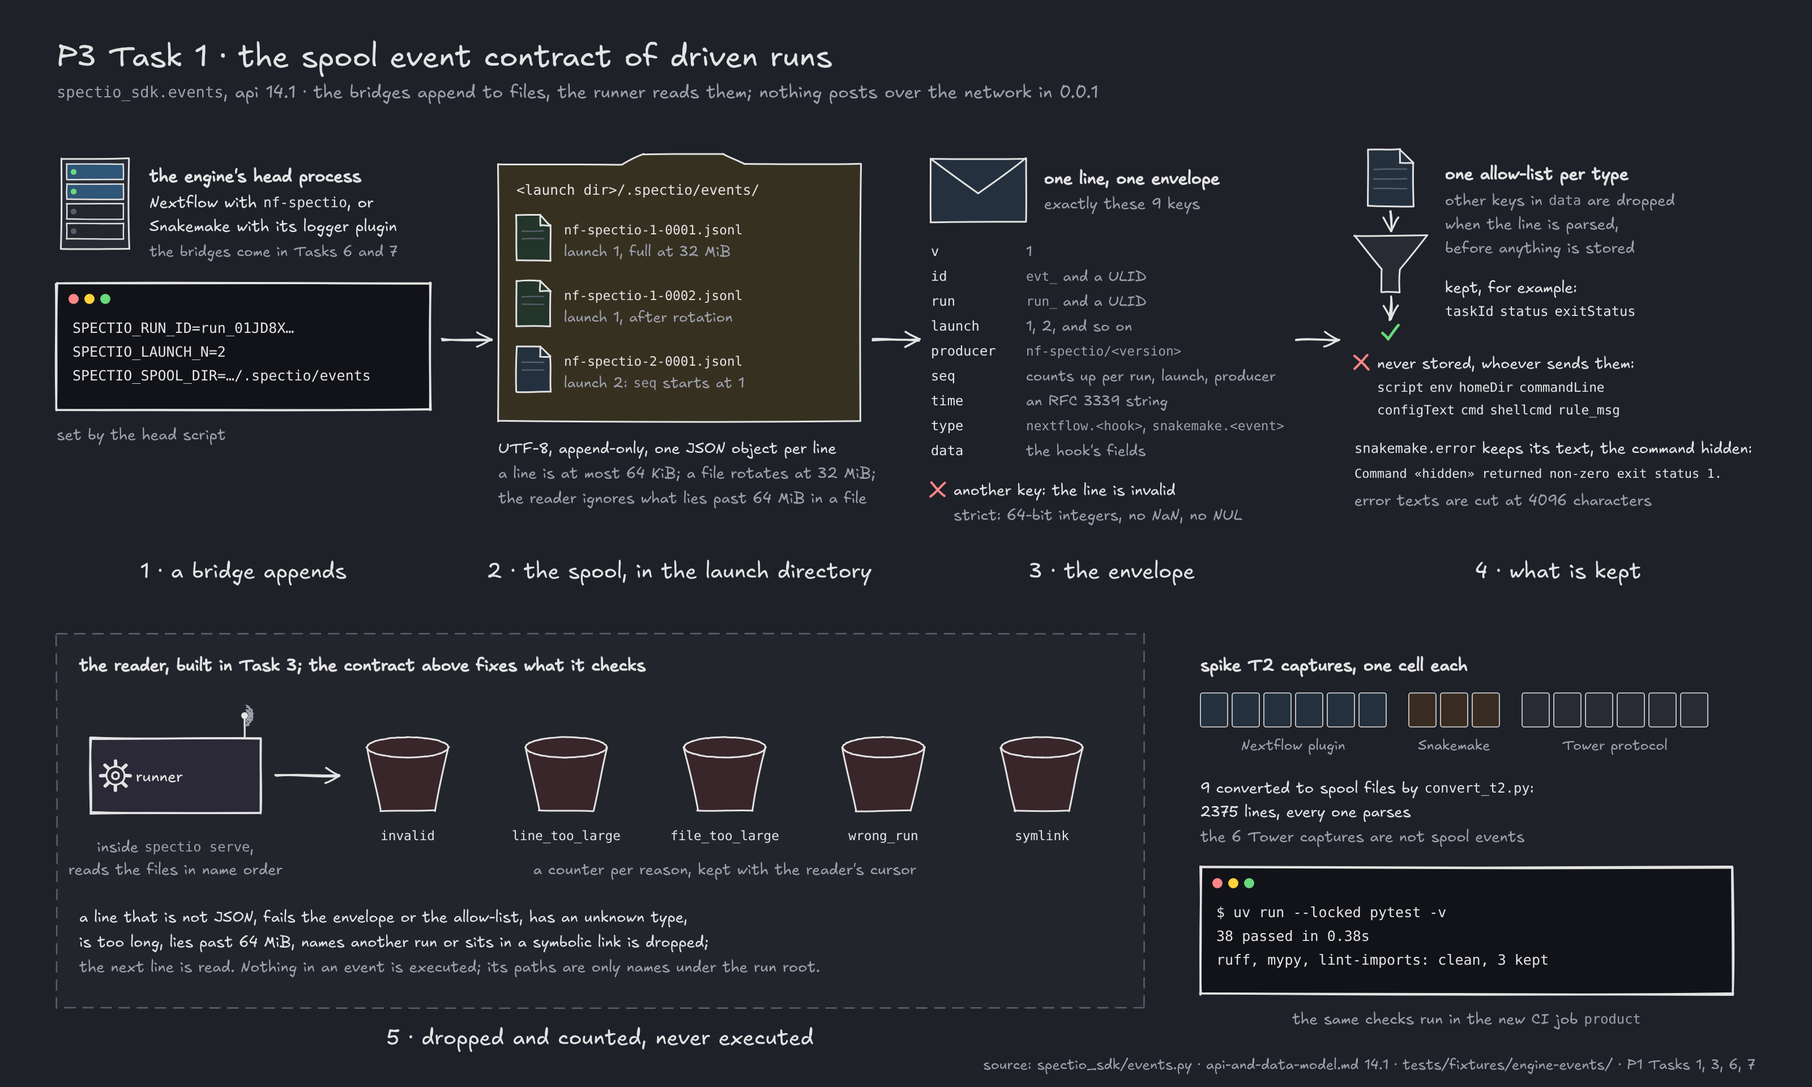
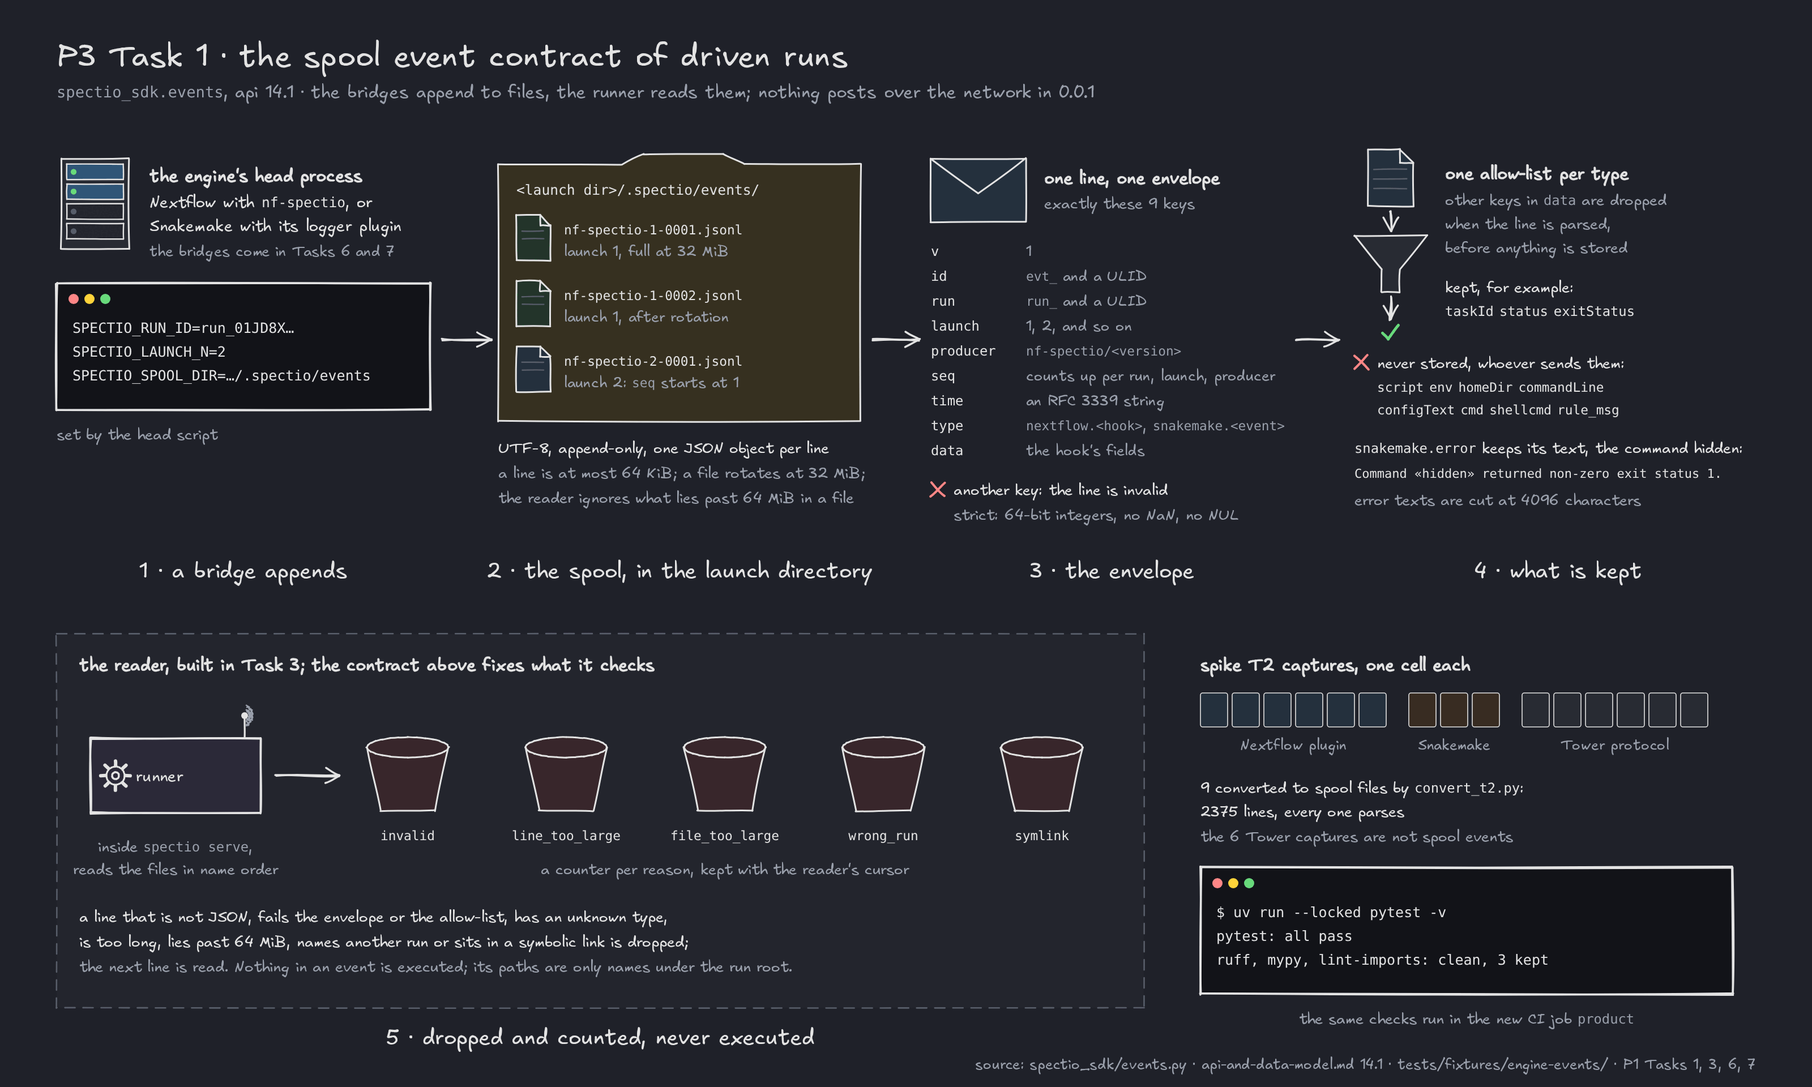
docs(progress): P3-M1 evidence on f456646, review round 3, figure without a test count

diff --git a/tools/diagrams/p3_t01_spool.py b/tools/diagrams/p3_t01_spool.py
@@ -16,7 +16,8 @@ Every fact comes from branch autopilot/P3-t01 at b730180:
   (docs/plans/P1-walking-skeleton.md);
 - spikes/engine-events/fixtures/: 15 captures, 6 Nextflow plugin, 3 Snakemake, 6 Tower protocol;
   tests/fixtures/engine-events/: 9 spool files, `wc -l` 2375 lines;
-- `uv run --locked pytest -v`: 38 passed in 0.38s; `lint-imports`: 3 kept, 0 broken (re-run 2026-10-29).
+- `uv run --locked pytest -v`: all pass; `lint-imports`: 3 kept, 0 broken (re-run 2026-10-29; no test
+  count, so that the figure does not go stale).
 """
 
 from __future__ import annotations
@@ -137,7 +138,7 @@ def build(theme: Theme) -> Sketch:
     s.text(ex, ry + 140, "9 converted to spool files by `convert_t2.py`:", size=13.5, anchor="start")
     s.text(ex, ry + 161, "2375 lines, every one parses", size=13.5, anchor="start")
     s.text(ex, ry + 183, "the 6 Tower captures are not spool events", size=13.5, anchor="start", colour=t.dim)
-    s.terminal(ex, ry + 206, 470, 112, ("$ uv run --locked pytest -v", "38 passed in 0.38s",
+    s.terminal(ex, ry + 206, 470, 112, ("$ uv run --locked pytest -v", "pytest: all pass",
                                         "ruff, mypy, lint-imports: clean, 3 kept"), size=12.5)
     s.text(ex + 235, ry + 344, "the same checks run in the new CI job `product`", size=13.5, colour=t.dim)
 

diff --git a/docs/progress/W5/P3-M1.md b/docs/progress/W5/P3-M1.md
@@ -9,8 +9,8 @@ review: null
 
 !!! info "Running since 2026-10-29 · milestone M1 of step P3, Tasks 1–7 of [P1](../../plans/P1-walking-skeleton.md) · Task 1 done on `autopilot/P3-t01` (workspace and the spool event contract), [PR #73](https://github.com/spectio-org/spectio/pull/73) open into `autopilot/integration` · its `review-code`: approve after 2 rounds · Tasks 2–7 to do"
 
-![P3 Task 1, the spool event contract of driven runs. 1, a bridge appends: the engine's head process, Nextflow with nf-spectio or Snakemake with its logger plugin (Tasks 6 and 7), gets SPECTIO_RUN_ID, SPECTIO_LAUNCH_N and SPECTIO_SPOOL_DIR from the head script. 2, the spool in the launch directory, .spectio/events/: files nf-spectio-1-0001.jsonl, full at 32 MiB, nf-spectio-1-0002.jsonl after rotation, and nf-spectio-2-0001.jsonl, where launch 2's seq starts at 1; UTF-8, append-only, one JSON object per line, a line at most 64 KiB, nothing read past 64 MiB in a file. 3, the envelope: exactly the 9 keys v, id, run, launch, producer, seq, time, type and data; another key makes the line invalid; strict 64-bit integers, no NaN, no NUL. 4, one allow-list per type: other keys in data are dropped when the line is parsed; script, env, homeDir, commandLine, configText, cmd, shellcmd and rule_msg are never stored; snakemake.error keeps its text with the command hidden; error texts are cut at 4096 characters. 5, the reader, built in Task 3: the runner inside spectio serve reads the files in name order and drops and counts lines by reason, invalid, line_too_large, file_too_large, wrong_run, symlink; nothing in an event is executed. Beside it, to scale: of 15 spike T2 captures, 6 Nextflow plugin and 3 Snakemake captures are converted to 9 spool files with 2375 lines that all parse; the 6 Tower captures are not spool events. 38 tests pass; ruff, mypy and lint-imports are clean](../../assets/diagrams/p3-t01-spool_light.png#only-light)
-![P3 Task 1, the spool event contract of driven runs. 1, a bridge appends: the engine's head process, Nextflow with nf-spectio or Snakemake with its logger plugin (Tasks 6 and 7), gets SPECTIO_RUN_ID, SPECTIO_LAUNCH_N and SPECTIO_SPOOL_DIR from the head script. 2, the spool in the launch directory, .spectio/events/: files nf-spectio-1-0001.jsonl, full at 32 MiB, nf-spectio-1-0002.jsonl after rotation, and nf-spectio-2-0001.jsonl, where launch 2's seq starts at 1; UTF-8, append-only, one JSON object per line, a line at most 64 KiB, nothing read past 64 MiB in a file. 3, the envelope: exactly the 9 keys v, id, run, launch, producer, seq, time, type and data; another key makes the line invalid; strict 64-bit integers, no NaN, no NUL. 4, one allow-list per type: other keys in data are dropped when the line is parsed; script, env, homeDir, commandLine, configText, cmd, shellcmd and rule_msg are never stored; snakemake.error keeps its text with the command hidden; error texts are cut at 4096 characters. 5, the reader, built in Task 3: the runner inside spectio serve reads the files in name order and drops and counts lines by reason, invalid, line_too_large, file_too_large, wrong_run, symlink; nothing in an event is executed. Beside it, to scale: of 15 spike T2 captures, 6 Nextflow plugin and 3 Snakemake captures are converted to 9 spool files with 2375 lines that all parse; the 6 Tower captures are not spool events. 38 tests pass; ruff, mypy and lint-imports are clean](../../assets/diagrams/p3-t01-spool_dark.png#only-dark)
+![P3 Task 1, the spool event contract of driven runs. 1, a bridge appends: the engine's head process, Nextflow with nf-spectio or Snakemake with its logger plugin (Tasks 6 and 7), gets SPECTIO_RUN_ID, SPECTIO_LAUNCH_N and SPECTIO_SPOOL_DIR from the head script. 2, the spool in the launch directory, .spectio/events/: files nf-spectio-1-0001.jsonl, full at 32 MiB, nf-spectio-1-0002.jsonl after rotation, and nf-spectio-2-0001.jsonl, where launch 2's seq starts at 1; UTF-8, append-only, one JSON object per line, a line at most 64 KiB, nothing read past 64 MiB in a file. 3, the envelope: exactly the 9 keys v, id, run, launch, producer, seq, time, type and data; another key makes the line invalid; strict 64-bit integers, no NaN, no NUL. 4, one allow-list per type: other keys in data are dropped when the line is parsed; script, env, homeDir, commandLine, configText, cmd, shellcmd and rule_msg are never stored; snakemake.error keeps its text with the command hidden; error texts are cut at 4096 characters. 5, the reader, built in Task 3: the runner inside spectio serve reads the files in name order and drops and counts lines by reason, invalid, line_too_large, file_too_large, wrong_run, symlink; nothing in an event is executed. Beside it, to scale: of 15 spike T2 captures, 6 Nextflow plugin and 3 Snakemake captures are converted to 9 spool files with 2375 lines that all parse; the 6 Tower captures are not spool events. all tests pass; ruff, mypy and lint-imports are clean](../../assets/diagrams/p3-t01-spool_light.png#only-light)
+![P3 Task 1, the spool event contract of driven runs. 1, a bridge appends: the engine's head process, Nextflow with nf-spectio or Snakemake with its logger plugin (Tasks 6 and 7), gets SPECTIO_RUN_ID, SPECTIO_LAUNCH_N and SPECTIO_SPOOL_DIR from the head script. 2, the spool in the launch directory, .spectio/events/: files nf-spectio-1-0001.jsonl, full at 32 MiB, nf-spectio-1-0002.jsonl after rotation, and nf-spectio-2-0001.jsonl, where launch 2's seq starts at 1; UTF-8, append-only, one JSON object per line, a line at most 64 KiB, nothing read past 64 MiB in a file. 3, the envelope: exactly the 9 keys v, id, run, launch, producer, seq, time, type and data; another key makes the line invalid; strict 64-bit integers, no NaN, no NUL. 4, one allow-list per type: other keys in data are dropped when the line is parsed; script, env, homeDir, commandLine, configText, cmd, shellcmd and rule_msg are never stored; snakemake.error keeps its text with the command hidden; error texts are cut at 4096 characters. 5, the reader, built in Task 3: the runner inside spectio serve reads the files in name order and drops and counts lines by reason, invalid, line_too_large, file_too_large, wrong_run, symlink; nothing in an event is executed. Beside it, to scale: of 15 spike T2 captures, 6 Nextflow plugin and 3 Snakemake captures are converted to 9 spool files with 2375 lines that all parse; the 6 Tower captures are not spool events. all tests pass; ruff, mypy and lint-imports are clean](../../assets/diagrams/p3-t01-spool_dark.png#only-dark)
 
 One Progress page per milestone, opened with its first PR and closed with its done proof ([P2 §0](../../plans/P2-execution.md#0-how-p3-runs-this)). This page covers M1, "Events in" ([P2 §1](../../plans/P2-execution.md#1-m1-events-in)).
 
@@ -18,7 +18,7 @@ One Progress page per milestone, opened with its first PR and closed with its do
 
 | Task | P1 | Depends on | Branch | Status |
 |---|---|---|---|---|
-| 1 · Workspace and the spool event contract | [Task 1](../../plans/P1-walking-skeleton.md#task-1-workspace-and-the-spool-event-contract) | none | `autopilot/P3-t01` | done, [PR #73](https://github.com/spectio-org/spectio/pull/73) open; CI `product` passed on `41f0628` |
+| 1 · Workspace and the spool event contract | [Task 1](../../plans/P1-walking-skeleton.md#task-1-workspace-and-the-spool-event-contract) | none | `autopilot/P3-t01` | done, [PR #73](https://github.com/spectio-org/spectio/pull/73) open; CI `product` passed on `41f0628`, before the last code changes; on the new head: pending |
 | 2 · SQLite store and its discipline | [Task 2](../../plans/P1-walking-skeleton.md#task-2-sqlite-store-and-its-discipline) | 1 | | to do |
 | 3 · Spool reader (§15.3 req. 6) | [Task 3](../../plans/P1-walking-skeleton.md#task-3-spool-reader-153-req-6) | 1 | | to do |
 | 4 · Projector, run state and Nextflow mapping | [Task 4](../../plans/P1-walking-skeleton.md#task-4-projector-run-state-and-nextflow-mapping) | 2, 3 | | to do |
@@ -51,8 +51,8 @@ Branch `autopilot/P3-t01`, base `9e08a3e`, head `b730180` before this page; 5 co
     - `parse_data(event)`, which returns the allow-listed model of the event's type, or raises `UnknownEventType`.
     - The caps `MAX_LINE_BYTES` (65 536), `ROTATE_BYTES` (32 MiB), `MAX_FILE_BYTES` (64 MiB) and `MAX_MESSAGE_CHARS` (4096).
     - Hiding the quoted command in `snakemake.error` texts.
-    - Dropping the never-stored keys at any depth, inside free-form values (`resources`, `rulegraph`, `wildcards`) too: added after the doc review, test-first (5 more tests).
-- **Tests:** `packages/spectio-sdk/tests/test_spool_events.py` (42 tests) and `packages/spectio/tests/test_static_imports.py` (1).
+    - Dropping the never-stored keys at any depth, inside free-form values (`resources`, `rulegraph`) too: added after the doc review, test-first (5 more tests); then wildcard names are kept as the rule declares them (SEC-P3T1-12, 1 more test).
+- **Tests:** `packages/spectio-sdk/tests/test_spool_events.py` (43 tests) and `packages/spectio/tests/test_static_imports.py` (1).
 - **Fixtures:** `tests/fixtures/engine-events/convert_t2.py` converts the spike T2 bridge captures (`spikes/engine-events/fixtures/`) into 9 `*.spool.jsonl` files (2375 lines). It refuses to write when a capture matches a credential pattern. `tests/slurm/test_fixture.py` now scans these 24 files (the 9 spool files and the 15 captures) for credentials too.
 - **CI:** a `product` job in `.github/workflows/ci.yml`:
     - setup-uv pinned by SHA, with the `UV_VERSION` and `UV_SHA256` of `dev/versions.env`;
@@ -91,31 +91,15 @@ $ git diff --stat 9e08a3e b730180 | tail -1
  31 files changed, 4250 insertions(+), 6 deletions(-)
 ```
 
-**Re-run by `doc-writer`** on `b730180`, in a cloud session (uv 0.11.32, Python 3.13.14 from `dev/versions.env`):
+**Re-run** on `f456646` (the last code commit of the branch), in a cloud session (uv 0.11.32, Python 3.13.14 from `dev/versions.env`). An earlier run by `doc-writer`, on `b730180`, had 38 tests:
 
 ```console
 $ uv sync --locked --python 3.13.14
-Resolved 27 packages in 1ms
+Resolved 27 packages in 2ms
 Checked 25 packages in 0.28ms
-$ uv run --locked pytest -v
-collected 38 items
-packages/spectio/tests/test_static_imports.py::test_no_dunder_import PASSED [  2%]
-packages/spectio-sdk/tests/test_spool_events.py::test_t2_fixtures_validate PASSED [  5%]
-packages/spectio-sdk/tests/test_spool_events.py::test_one_spool_file_per_bridge_capture PASSED [  7%]
-packages/spectio-sdk/tests/test_spool_events.py::test_converted_fixtures_are_current PASSED [ 10%]
-packages/spectio-sdk/tests/test_spool_events.py::test_convert_refuses_a_capture_with_a_secret PASSED [ 13%]
-packages/spectio-sdk/tests/test_spool_events.py::test_denylisted_fields_never_survive PASSED [ 15%]
-…
-packages/spectio-sdk/tests/test_spool_events.py::test_snakemake_error_msg_hides_the_command PASSED [ 34%]
-packages/spectio-sdk/tests/test_spool_events.py::test_snakemake_error_msg_fails_closed PASSED [ 36%]
-…
-packages/spectio-sdk/tests/test_spool_events.py::test_poison_lines_refused[NUL in a key-change14] PASSED [ 86%]
-packages/spectio-sdk/tests/test_spool_events.py::test_envelope_rejects_unknown_keys_and_bad_run_id PASSED [ 89%]
-packages/spectio-sdk/tests/test_spool_events.py::test_producer_must_match_type_engine PASSED [ 92%]
-packages/spectio-sdk/tests/test_spool_events.py::test_unknown_type_raises PASSED [ 94%]
-packages/spectio-sdk/tests/test_spool_events.py::test_bad_data_raises_validation_error PASSED [ 97%]
-packages/spectio-sdk/tests/test_spool_events.py::test_caps PASSED        [100%]
-============================== 38 passed in 0.38s ==============================
+$ uv run --locked pytest -q
+............................................                             [100%]
+44 passed in 0.37s
 $ uv run --locked ruff check .
 All checks passed!
 $ uv run --locked ruff format --check .
@@ -125,22 +109,23 @@ Success: no issues found in 6 source files
 $ uv run --locked lint-imports
 The runner never imports the server (architecture §6) KEPT
 spectio has no FastAPI and no SQLAlchemy (architecture §6) KEPT
-spectio-sdk imports neither spectio, spectio_server, FastAPI nor SQLAlchemy
+spectio-sdk imports neither spectio, spectio_server, FastAPI nor SQLAlchemy 
 (architecture §6) KEPT
+
 Contracts: 3 kept, 0 broken.
 $ python3 -m unittest discover -s tests/slurm -p 'test_*.py'
-Ran 4 tests in 0.187s
+Ran 4 tests in 0.188s
 OK
 ```
 
-These are the commands of the `product` job, plus the `unit` job that carries the extended fixture guard. The 38 tests include 15 poison-line cases (`test_poison_lines_refused`). `test_t2_fixtures_validate` parses every line of the 9 spool files.
+These are the commands of the `product` job, plus the `unit` job that carries the extended fixture guard. The 44 tests (43 in `test_spool_events.py`, 1 in `test_static_imports.py`) include 15 poison-line cases (`test_poison_lines_refused`). `test_t2_fixtures_validate` parses every line of the 9 spool files.
 
 ```console
 $ wc -l tests/fixtures/engine-events/*.spool.jsonl | tail -1
  2375 total
 ```
 
-**CI:** on [PR #73](https://github.com/spectio-org/spectio/pull/73), the `product` job passed on `41f0628` (job 123791515502).
+**CI:** on [PR #73](https://github.com/spectio-org/spectio/pull/73), the `product` job passed on `41f0628` (job 123791515502), which predates the code changes of `6d50d3c` and `f456646`. Its result on the new head is pending.
 
 **Review** ([record](../../reviews/code/P3-t01.md)):
 
@@ -151,13 +136,15 @@ $ wc -l tests/fixtures/engine-events/*.spool.jsonl | tail -1
     - CR-P3T1-01: the scope of `seq` differed between §14.1 and §8.2 / §13.1.
     - CR-P3T1-02 / SEC-P3T1-01: `snakemake.error.msg` stored the failed shell command, `export` values included, in 5 fixture events.
 - Round 2, on `3be01c1`: both approve. Its minors CR-07, CR-08, SEC-07 and SEC-10 were fixed test-first in `c69bccb`.
-- `code-simplifier`, on `c69bccb`: commit `3e5342b`, −12/+3. The 38 tests pass after it.
+- `code-simplifier`, on `c69bccb`: commit `3e5342b`, −12/+3. The 38 tests of that head pass after it.
+- Doc review of PR #73: block on DR-P3T1-01 (denylisted keys kept inside free-form values), fixed in `6d50d3c`.
+- Round 3, on `7106465` (security only): approve. SEC-P3T1-12 fixed in `f456646`; SEC-P3T1-11 deferred to Task 5.
 
 ```text
-CODE  step=P3-t01  review=approve b/M/m=0/2/6  security=approve b/M/m=0/1/9  rounds=2  simplify=changed -12/+3  tests=pass
+CODE  step=P3-t01  review=approve b/M/m=0/2/6  security=approve b/M/m=0/1/11  rounds=3  simplify=changed -12/+3  tests=pass
 ```
 
-**Exit criterion.** P3 is done when M1 to M8 are done ([P2](../../plans/P2-execution.md)). For M1, the proof is the command of [P2 §1](../../plans/P2-execution.md#1-m1-events-in) item 3, which needs Tasks 2–7. Task 1's own check is P1 Step 4: `uv run pytest packages/spectio-sdk/tests/test_spool_events.py -v` passes (above, within the 38) and the strict docs build is clean (below).
+**Exit criterion.** P3 is done when M1 to M8 are done ([P2](../../plans/P2-execution.md)). For M1, the proof is the command of [P2 §1](../../plans/P2-execution.md#1-m1-events-in) item 3, which needs Tasks 2–7. Task 1's own check is P1 Step 4: `uv run pytest packages/spectio-sdk/tests/test_spool_events.py -v` passes (above, within the 44) and the strict docs build is clean (below).
 
 **Docs gate,** run after writing this page:
 
@@ -208,5 +195,5 @@ $ echo $?
 
 - **Attribution trailers in the first commit.** `9fb1d97` ends with a `Co-Authored-By` trailer that names a model, and a `Claude-Session` trailer. The other commits of the branch have neither. The squash message of the PR drops both. The branch history keeps them, because the branch is never force-pushed.
 - **Still pending Thomas:** inbox [#28](../../reviews/inbox.md#28-assumed-engine-bridges-runner-and-scheduler) (the spool numbers) and [#55](../../reviews/inbox.md#55-what-engine-events-may-carry-task-script-and-env-user-host-and-command-line) (what events may carry). His 2026-10-29 dashboard answer to #55 asks why not send `script` and `env` as Tower does. It is not a decision yet, and §14.1 says so.
-- Follow-up: `hooks/progress.py` should link milestone pages (`P3-M<n>`) from the P3 row.
+- Follow-up FU-P3-01: `hooks/progress.py` should link milestone pages (`P3-M<n>`) from the P3 row.
 - **Doc review:** `doc-reviewer` has not reviewed this page yet; `review` is `null`.

diff --git a/docs/reviews/code/P3-t01.md b/docs/reviews/code/P3-t01.md
@@ -14,15 +14,16 @@ The reviewers were `code-reviewer` and `security-reviewer`, independent and in p
 |---|---|---|---|
 | 1 | `9fb1d97` | **changes** (0 blockers, 2 majors, 4 minors, 2 of them `simplify:`) | **changes** (0 blockers, 1 major, 5 minors) |
 | 2 | `3be01c1` (the round-1 fixes) | **approve** (0 blockers, 0 majors, 2 minors, plus the 2 open `simplify:` findings) | **approve** (0 blockers, 0 majors, 4 minors) |
+| 3 | `7106465` (delta `3e5342b..7106465`: the doc-review fix DR-P3T1-01) | not run (the change is a security fix, reviewed by `security-reviewer`) | **approve** (0 blockers, 0 majors, 2 minors: SEC-P3T1-11 deferred to Task 5 with a §14.1 note, SEC-P3T1-12 fixed in `f456646`) |
 
-The round-2 minors CR-07, CR-08, SEC-07 and SEC-10 were fixed in `c69bccb`. Each fix was test-first: the new tests failed before the change and pass after it. The changes are small, so neither reviewer ran a third round. Test command:
+The round-2 minors CR-07, CR-08, SEC-07 and SEC-10 were fixed in `c69bccb`. Each fix was test-first: the new tests failed before the change and pass after it. Round 3 reviewed the fix of the doc review's finding DR-P3T1-01 (security only). Test command:
 
 ```bash
 uv run pytest packages/spectio-sdk/tests/test_spool_events.py -v
 ```
 
 ```text
-CODE  step=P3-t01  review=approve b/M/m=0/2/6  security=approve b/M/m=0/1/9  rounds=2  simplify=changed -12/+3  tests=pass
+CODE  step=P3-t01  review=approve b/M/m=0/2/6  security=approve b/M/m=0/1/11  rounds=3  simplify=changed -12/+3  tests=pass
 ```
 
 `code-simplifier` ran on `c69bccb` (commit `3e5342b`); 38 tests pass after it.
@@ -42,7 +43,10 @@ CODE  step=P3-t01  review=approve b/M/m=0/2/6  security=approve b/M/m=0/1/9  rou
 | SEC-P3T1-04 | minor | The reader's rules were missing: names that must match the grammar, `wrong_launch`, a cap on partial lines, a cap on the number of files. | deferred to Task 3, which builds the reader; handed to its implementer with this record |
 | SEC-P3T1-05 | minor | The §14.1 wording on event paths was wrong, and req. 6 was stale. | fixed in `3be01c1` |
 | SEC-P3T1-06 | minor | The import contracts are static only. | partly fixed in `3be01c1` and `c69bccb`: the sdk forbids `fastapi` and `sqlalchemy`, ruff TID251 bans dynamic imports in `packages/spectio`, and an AST test refuses `__import__`. The fresh-environment CI check is deferred to Task 3 |
-| SEC-P3T1-07 | minor | Hiding the command took quadratic time, and a quoted terminator let the command through. | fixed in `c69bccb`: the text is cut before the regex, which is now greedy |
+| SEC-P3T1-07 | minor | Hiding the command took quadratic time, and a quoted terminator let the command through. | fixed in `c69bccb`: the text is cut before the regex, which is now greedy; resolved, verified in round 3 |
 | SEC-P3T1-08 | minor | Hiding is a deny-pattern; other Snakemake error forms would pass through. | deferred to Task 5 **[to be validated]** |
 | SEC-P3T1-09 | minor | Nextflow's `errorMessage` is capped but not hidden. | deferred to Task 6 (`nf-spectio` sends `errorMessage`, never `errorReport`) |
-| SEC-P3T1-10 | minor | The AST guard missed `importlib.__import__`; other loaders were not banned. | fixed in `c69bccb` |
+| SEC-P3T1-10 | minor | The AST guard missed `importlib.__import__`; other loaders were not banned. | fixed in `c69bccb`; resolved, verified in round 3 |
+| SEC-P3T1-11 | minor | `resources` values are stored as the rule declares them (deny-listing is by exact key name); the Snakemake SLURM plugin's `slurm_extra` may carry raw `sbatch` flags **[to be validated]**. | deferred to Task 5, with a note in §14.1 (`f456646`) |
+| SEC-P3T1-12 | minor | The at-any-depth drop of `6d50d3c` also removed wildcards named `env` or `cmd`, which are the workflow's own labels. | fixed in `f456646`: `wildcards` kept as declared, test-first (1 test) |
+| DR-P3T1-01 | block (doc review) | api §14.1 said the denylisted keys are never stored, but free-form `resources`, `rulegraph` and `wildcards` kept them nested. | fixed in `6d50d3c`: dropped at any depth, 5 tests (`wildcards` then excepted by SEC-P3T1-12) |
